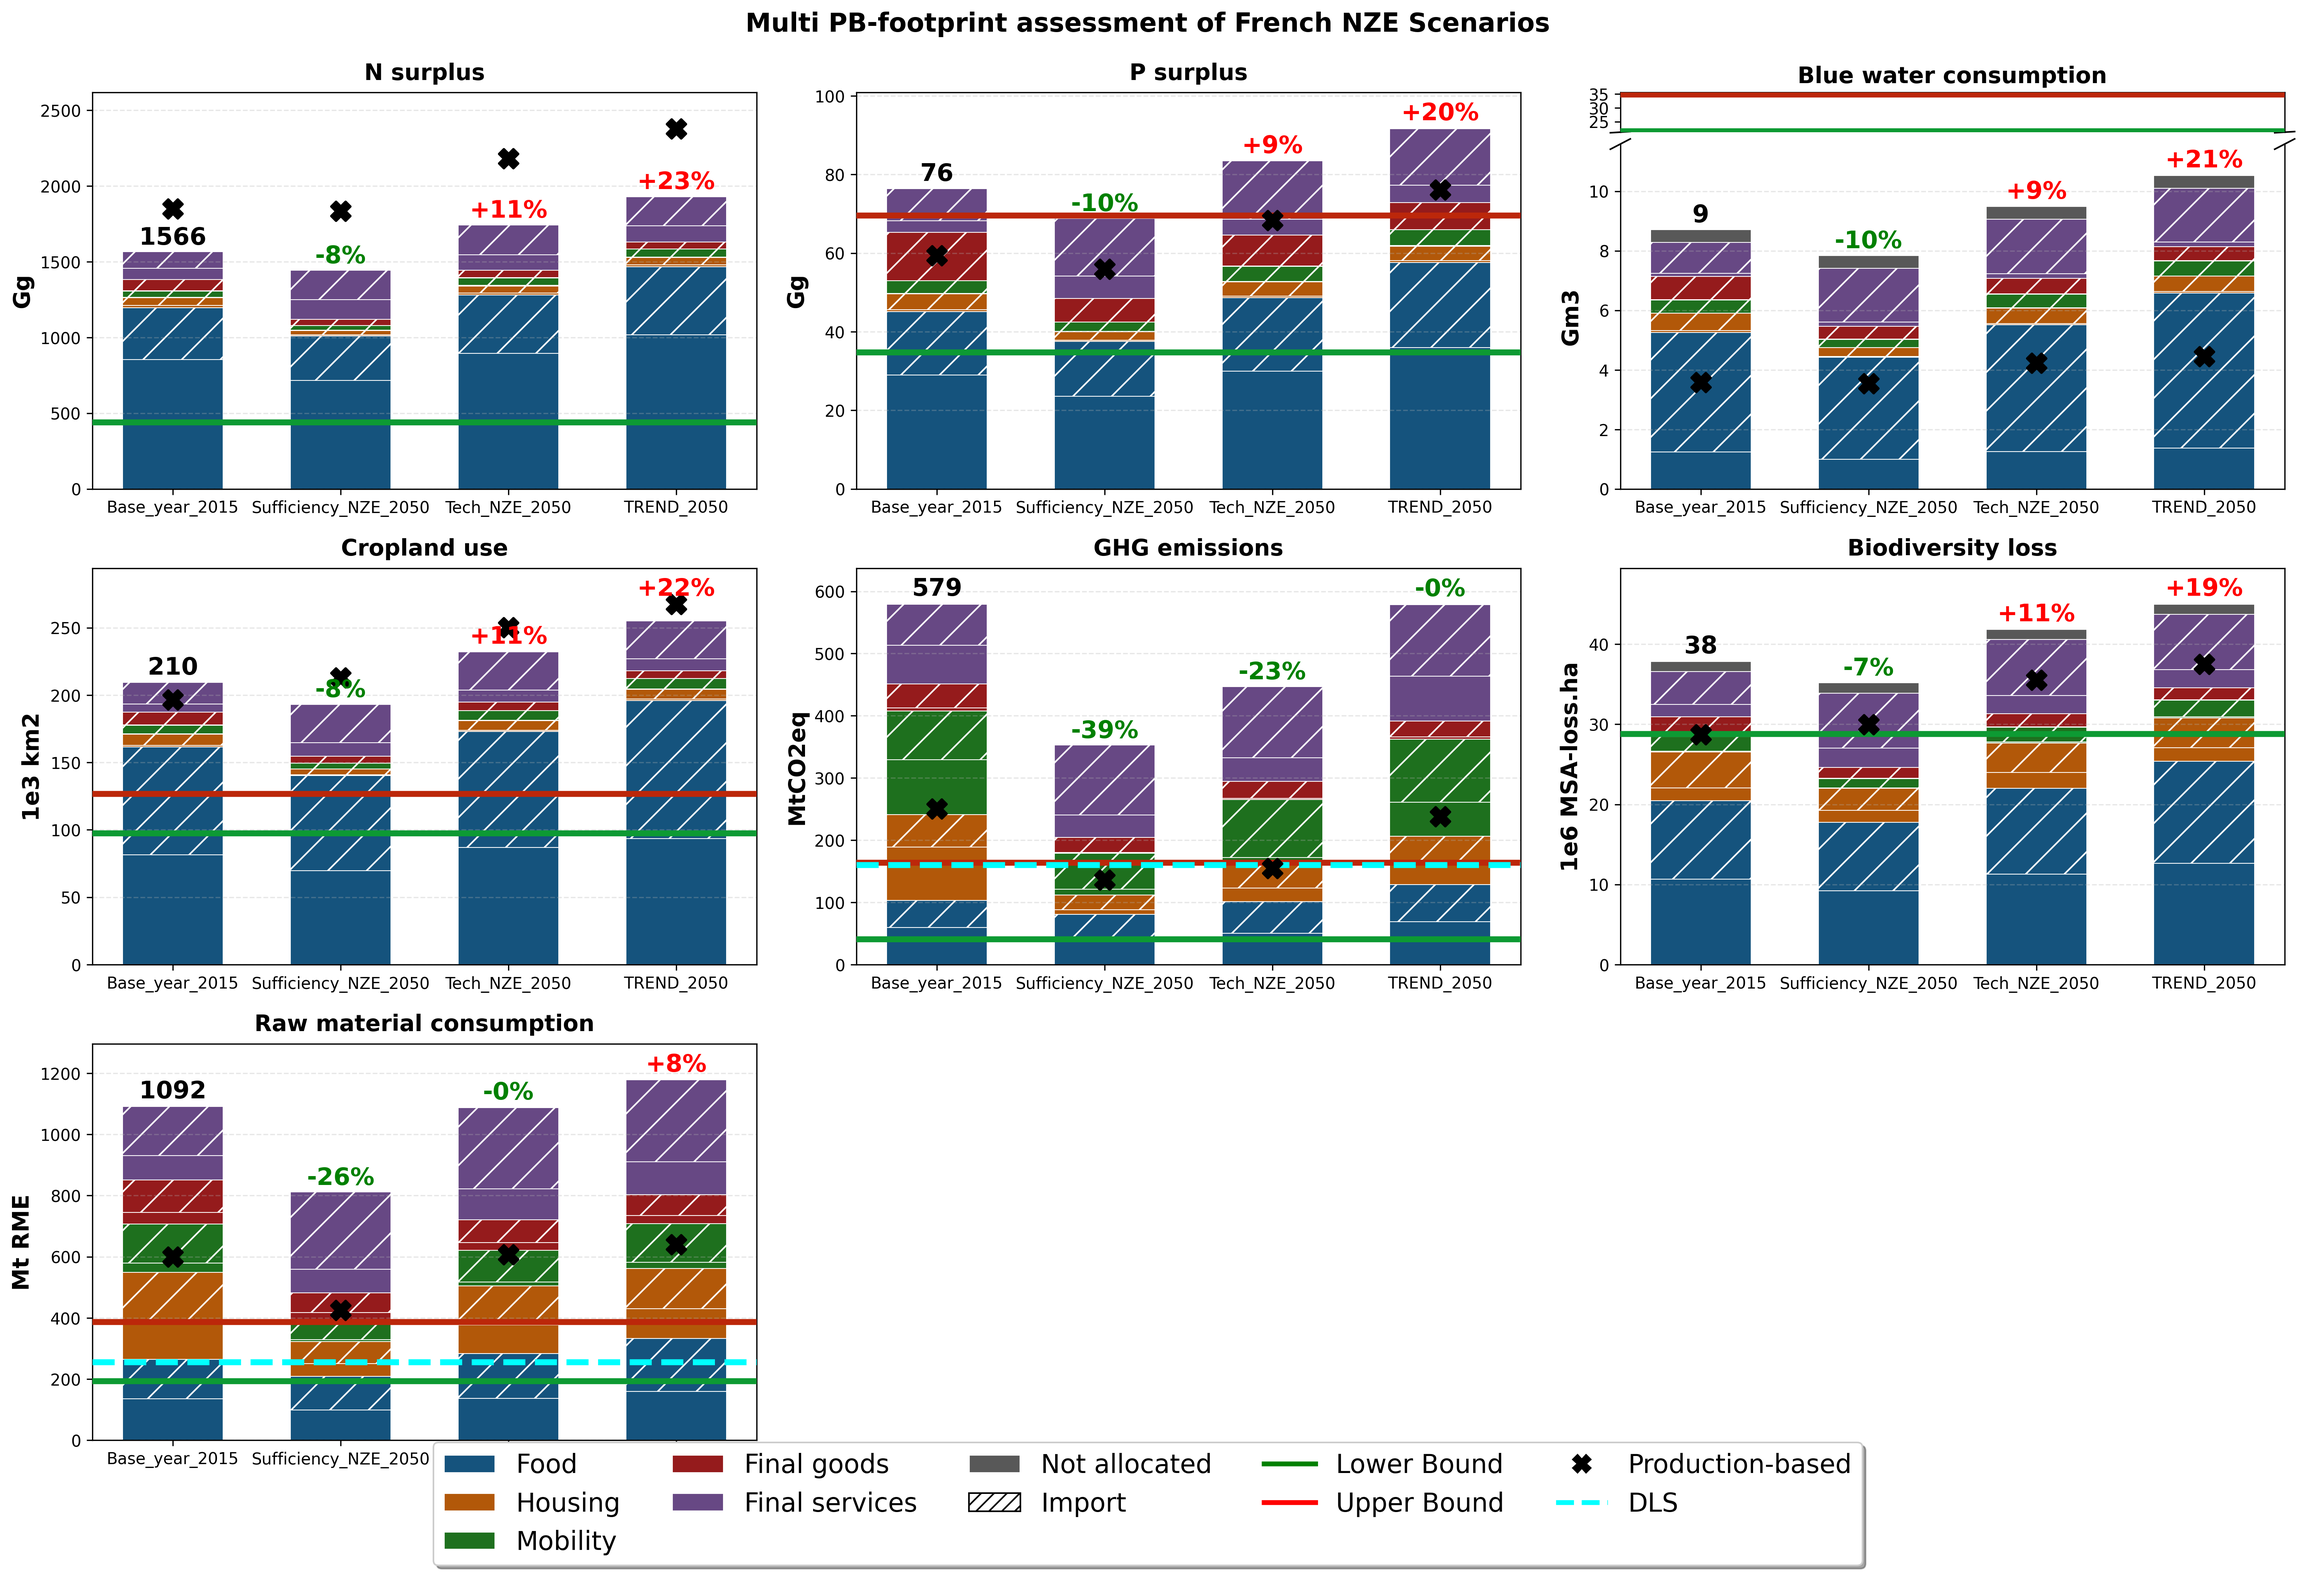
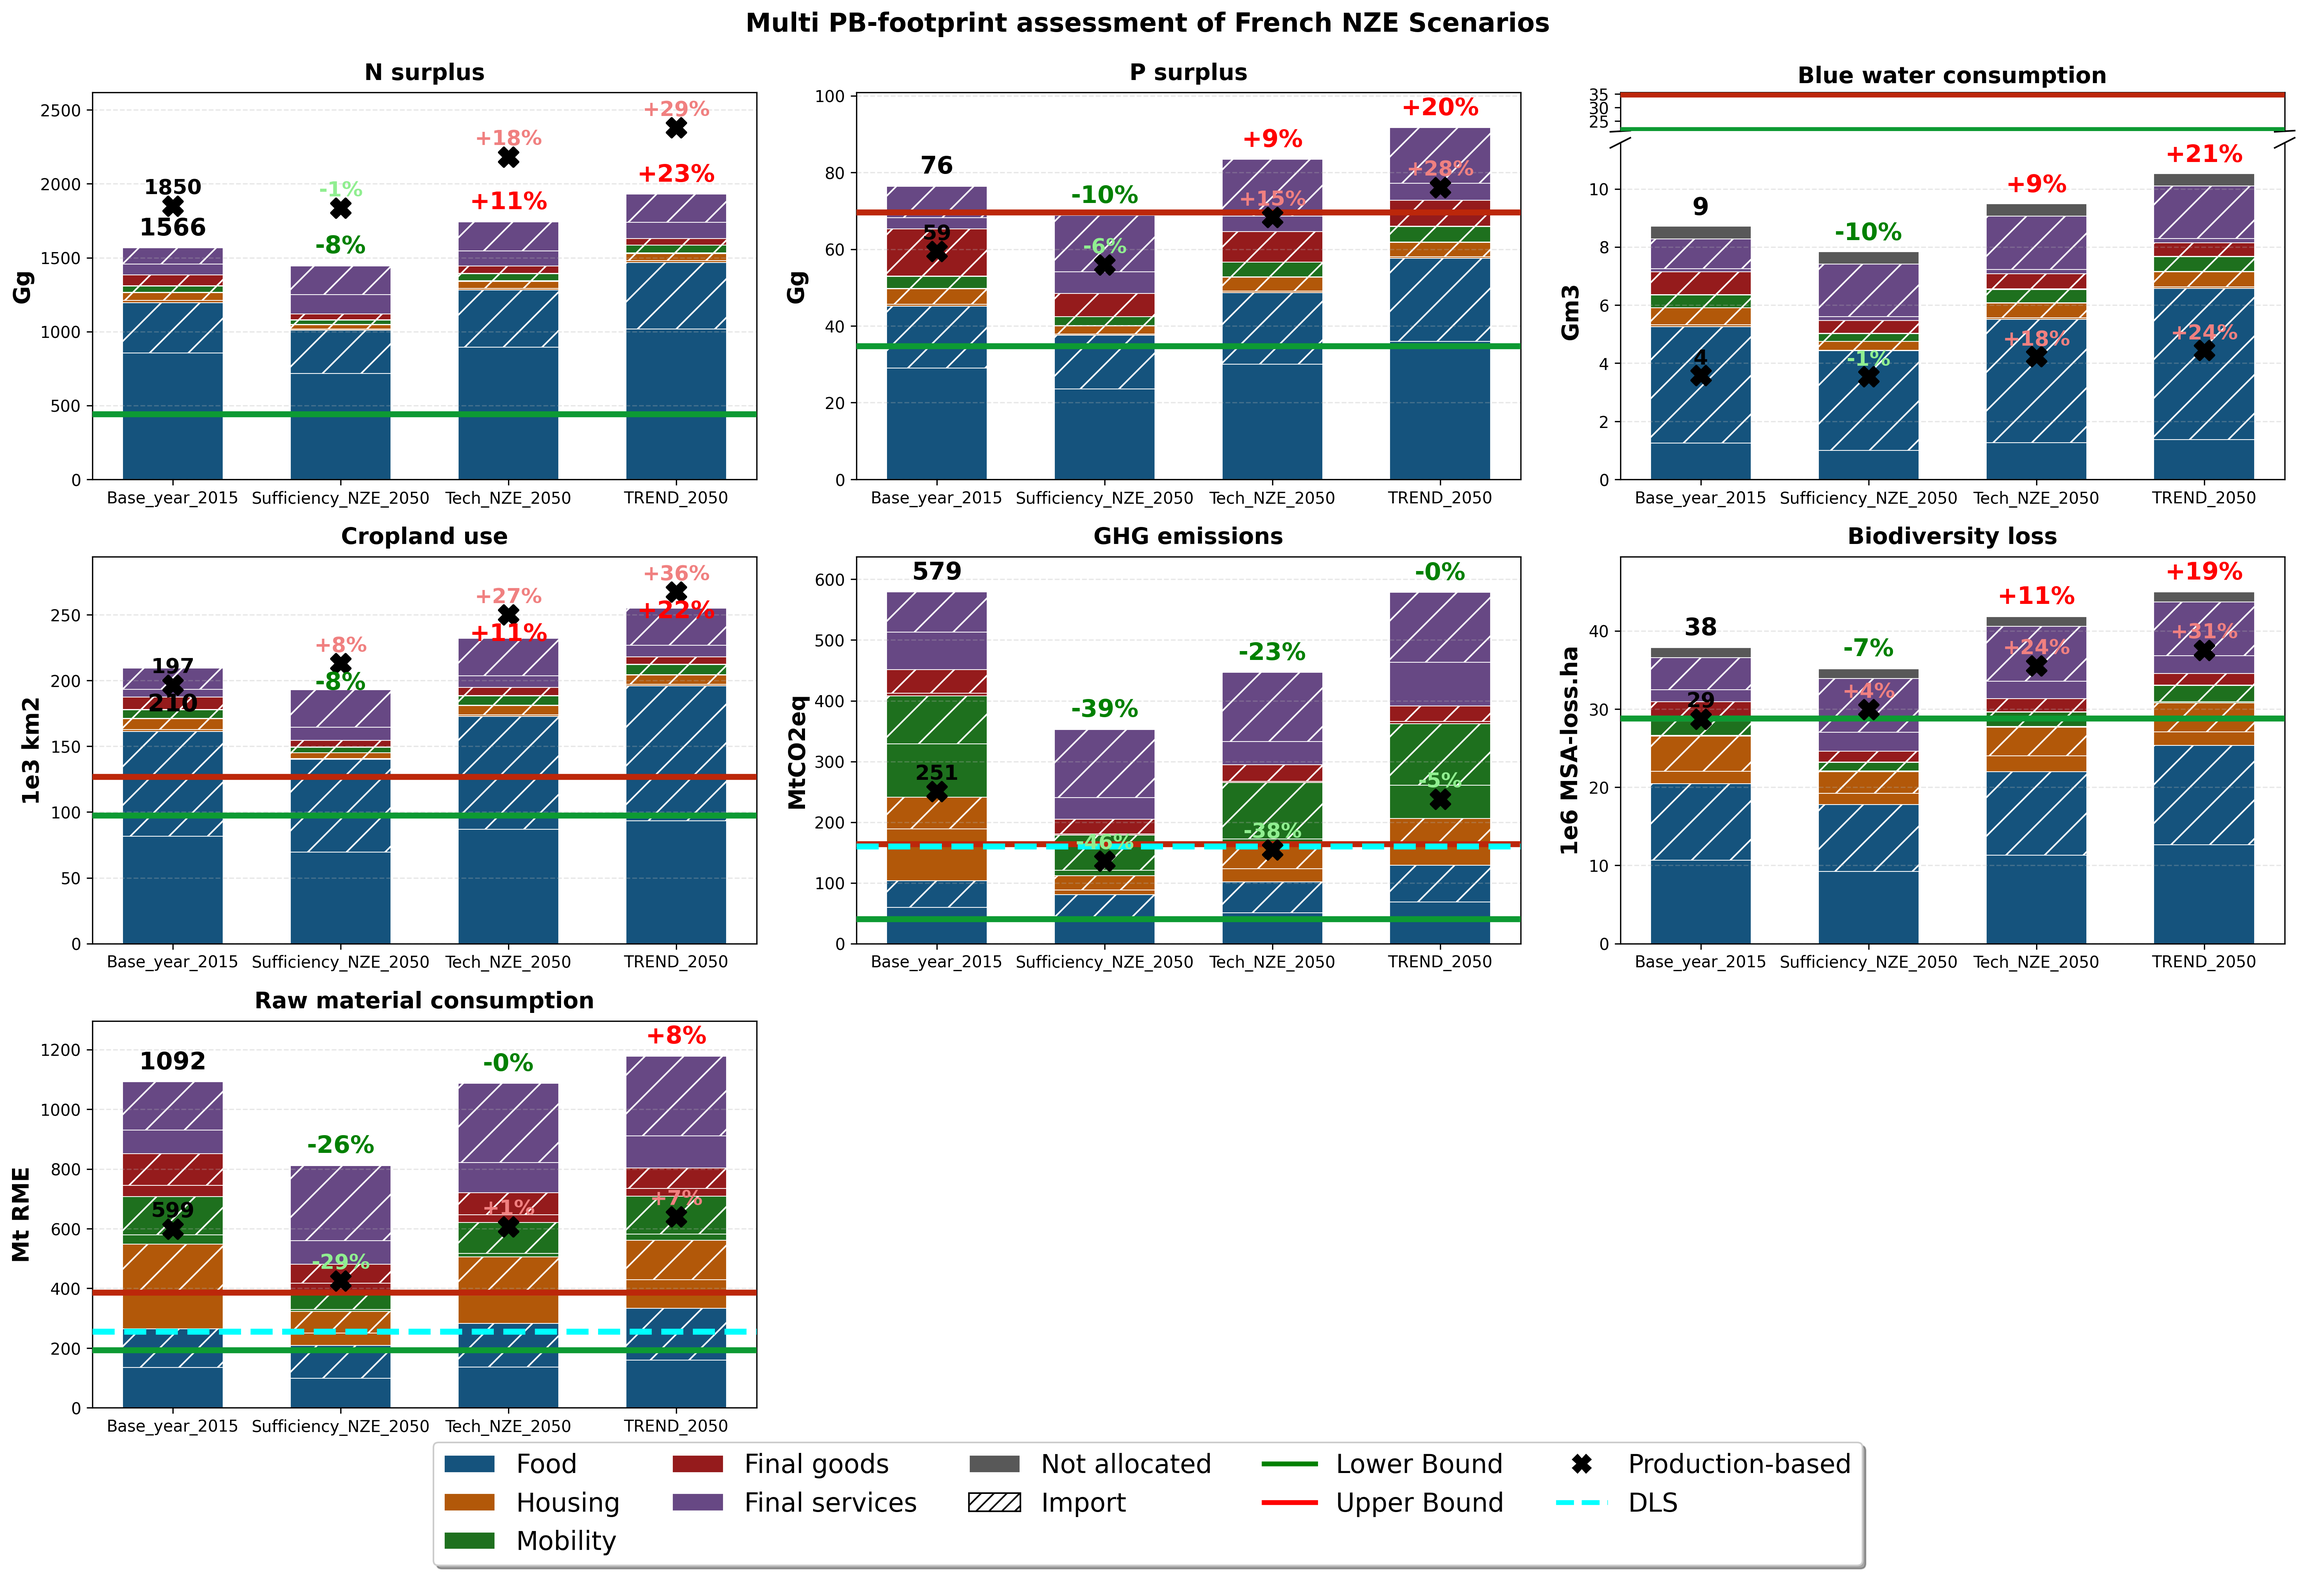
finalisation figures

diff --git a/notebooks/planefr_lib/plot_stacked_bar.py b/notebooks/planefr_lib/plot_stacked_bar.py
@@ -212,7 +212,7 @@ def create_synthesis_figure_by_lp(all_scenarios_data, seuils_df, subprocess_to_l
     n_lp = len(subprocesses)
 
     fig = plt.figure(figsize=(20, 14))
-    gs = fig.add_gridspec(3, 3, hspace=0.2, wspace=0.15, top=0.93, bottom=0.1, left=0.045, right=0.99)
+    gs = fig.add_gridspec(3, 3, hspace=0.2, wspace=0.15, top=0.93, bottom=0.12, left=0.045, right=0.99)
     positions = [(r, c) for r in range(3) for c in range(3)]
 
     reference_idx = config.REFERENCE_SCENARIO_IDX
@@ -335,40 +335,58 @@ def create_synthesis_figure_by_lp(all_scenarios_data, seuils_df, subprocess_to_l
 
         # PBA (production-based accounting) : croix noire en gras sur chaque barre,
         # à comparer visuellement au sommet de la barre (CBA, consumption-based).
-        # Tracée avant les annotations texte pour que ces dernières, si elles se
-        # superposent à la croix, soient replacées au-dessus (cf. text_y ci-dessous).
+        pba_axes = [None] * n_scenarios
         for scenario_idx, pba_val in enumerate(pba_values):
             if pba_val is None or not np.isfinite(pba_val):
                 continue
             target_ax = ax_top if (use_break and ax_top is not None and pba_val > ax.get_ylim()[1]) else ax
+            pba_axes[scenario_idx] = target_ax
             target_ax.scatter(scenario_idx, pba_val, marker="X", s=140, color="black",
                                linewidths=1.5, zorder=12)
 
         ref_total = total_values[reference_idx]
-        # Superposition jugée réelle seulement si la croix est proche du total en
-        # distance absolue sur l'axe (pas juste "au-dessus", sinon un PBA très
-        # supérieur au total renverrait le texte tout en haut sans raison, alors
-        # qu'il reste de la place juste au-dessus de la barre).
-        overlap_threshold = (ax.get_ylim()[1] - ax.get_ylim()[0]) * 0.05
+        ref_pba = pba_values[reference_idx]
+        ax_margin = (ax.get_ylim()[1] - ax.get_ylim()[0]) * 0.02
+        # Superposition jugée réelle seulement si la croix PBA est sur le même axe
+        # que la barre (pas de conflit possible si elle est sur ax_top, au-delà de
+        # la rupture d'axe) ET proche du total en distance absolue sur l'axe.
+        overlap_threshold = (ax.get_ylim()[1] - ax.get_ylim()[0]) * 0.1
+
         for scenario_idx, total_val in enumerate(total_values):
             pba_val = pba_values[scenario_idx]
-            pba_on_ax = (
-                pba_val is not None and np.isfinite(pba_val)
-                and not (use_break and ax_top is not None and pba_val > ax.get_ylim()[1])
+            pba_ax = pba_axes[scenario_idx]
+            overlapping = (
+                pba_ax is ax and pba_val is not None and np.isfinite(pba_val)
+                and abs(pba_val - total_val) < overlap_threshold
             )
-            overlapping = pba_on_ax and abs(pba_val - total_val) < overlap_threshold
-            text_y = max(total_val, pba_val) if overlapping else total_val
+            cba_y, cba_va = (pba_val - ax_margin, "top") if overlapping else (total_val + ax_margin, "bottom")
 
             if scenario_idx == reference_idx:
-                ax.text(scenario_idx, text_y * 1.01, f"{total_val:.0f}",
-                        ha="center", va="bottom", fontweight="bold", fontsize=15, color="black", zorder=13)
-                continue
-            if ref_total > 0:
+                ax.text(scenario_idx, cba_y, f"{total_val:.0f}",
+                        ha="center", va=cba_va, fontweight="bold", fontsize=15, color="black", zorder=13)
+            elif ref_total > 0:
                 variation_pct = (total_val - ref_total) / ref_total * 100
                 text_var = f"+{variation_pct:.0f}%" if variation_pct > 0 else f"{variation_pct:.0f}%"
                 var_color = "red" if variation_pct > 0 else ("green" if variation_pct < 0 else "black")
-                ax.text(scenario_idx, text_y * 1.01, text_var,
-                        ha="center", va="bottom", fontweight="bold", fontsize=15, color=var_color, zorder=13)
+                ax.text(scenario_idx, cba_y, text_var,
+                        ha="center", va=cba_va, fontweight="bold", fontsize=15, color=var_color, zorder=13)
+
+            # Texte PBA (total pour la référence, variation relative à la
+            # référence pour les autres), toujours au-dessus de la croix.
+            if pba_val is None or not np.isfinite(pba_val) or pba_ax is None:
+                continue
+            pba_margin = (pba_ax.get_ylim()[1] - pba_ax.get_ylim()[0]) * 0.02
+            pba_y = pba_val + pba_margin
+
+            if scenario_idx == reference_idx:
+                pba_ax.text(scenario_idx, pba_y, f"{pba_val:.0f}",
+                            ha="center", va="bottom", fontweight="bold", fontsize=13, color= "black", zorder=13)
+            elif ref_pba is not None and np.isfinite(ref_pba) and ref_pba > 0:
+                pba_variation_pct = (pba_val - ref_pba) / ref_pba * 100
+                pba_text_var = f"+{pba_variation_pct:.0f}%" if pba_variation_pct > 0 else f"{pba_variation_pct:.0f}%"
+                pba_var_color = "lightcoral" if pba_variation_pct > 0 else ("lightgreen" if pba_variation_pct < 0 else "black")
+                pba_ax.text(scenario_idx, pba_y, pba_text_var,
+                            ha="center", va="bottom", fontweight="bold", fontsize=13, color=pba_var_color, zorder=13)
 
         (ax_top if (use_break and ax_top is not None) else ax).set_title(
             subprocess_name, fontsize=14, fontweight="bold", pad=6 if use_break else 8)
